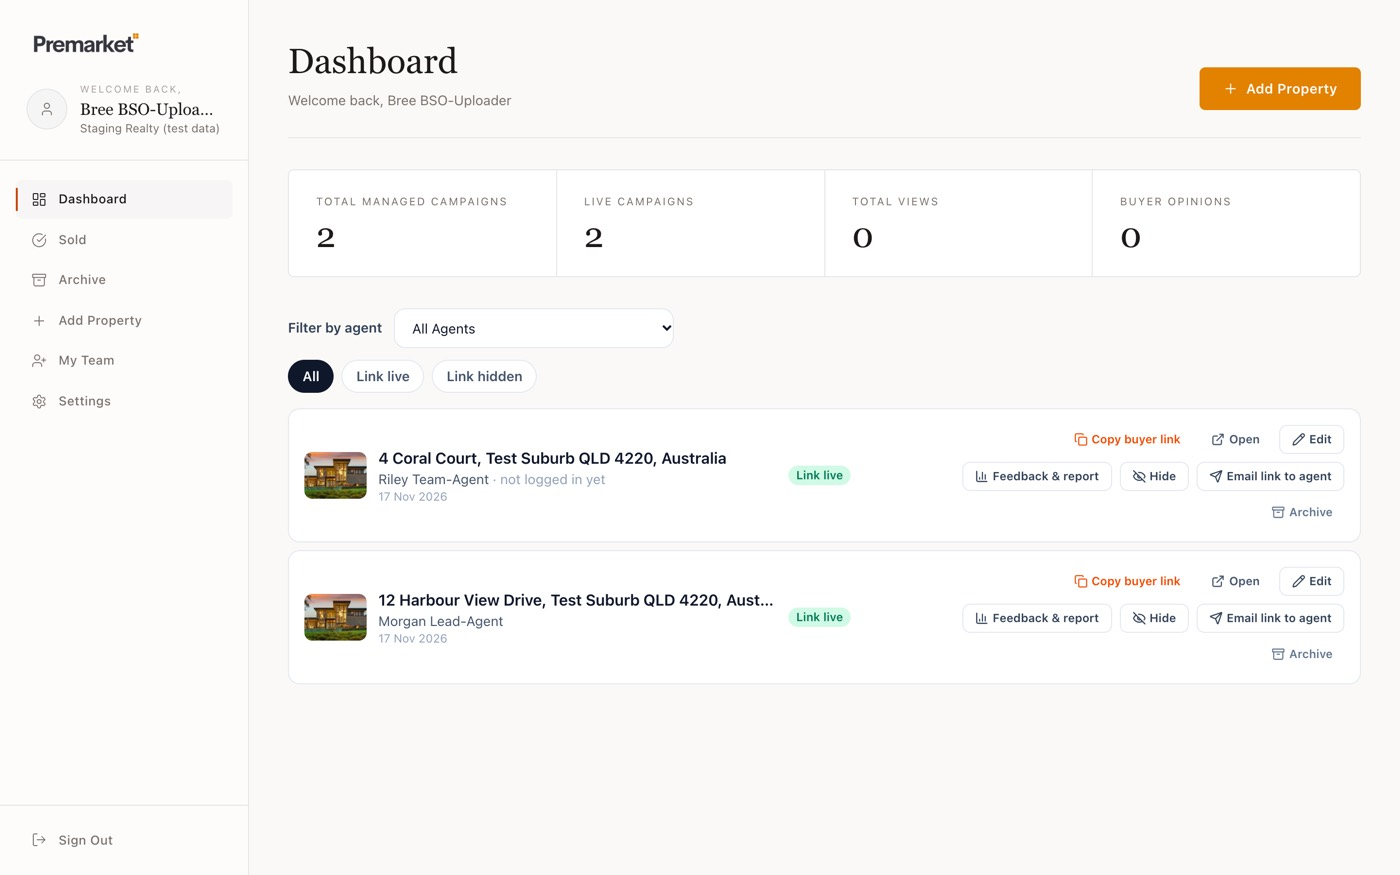
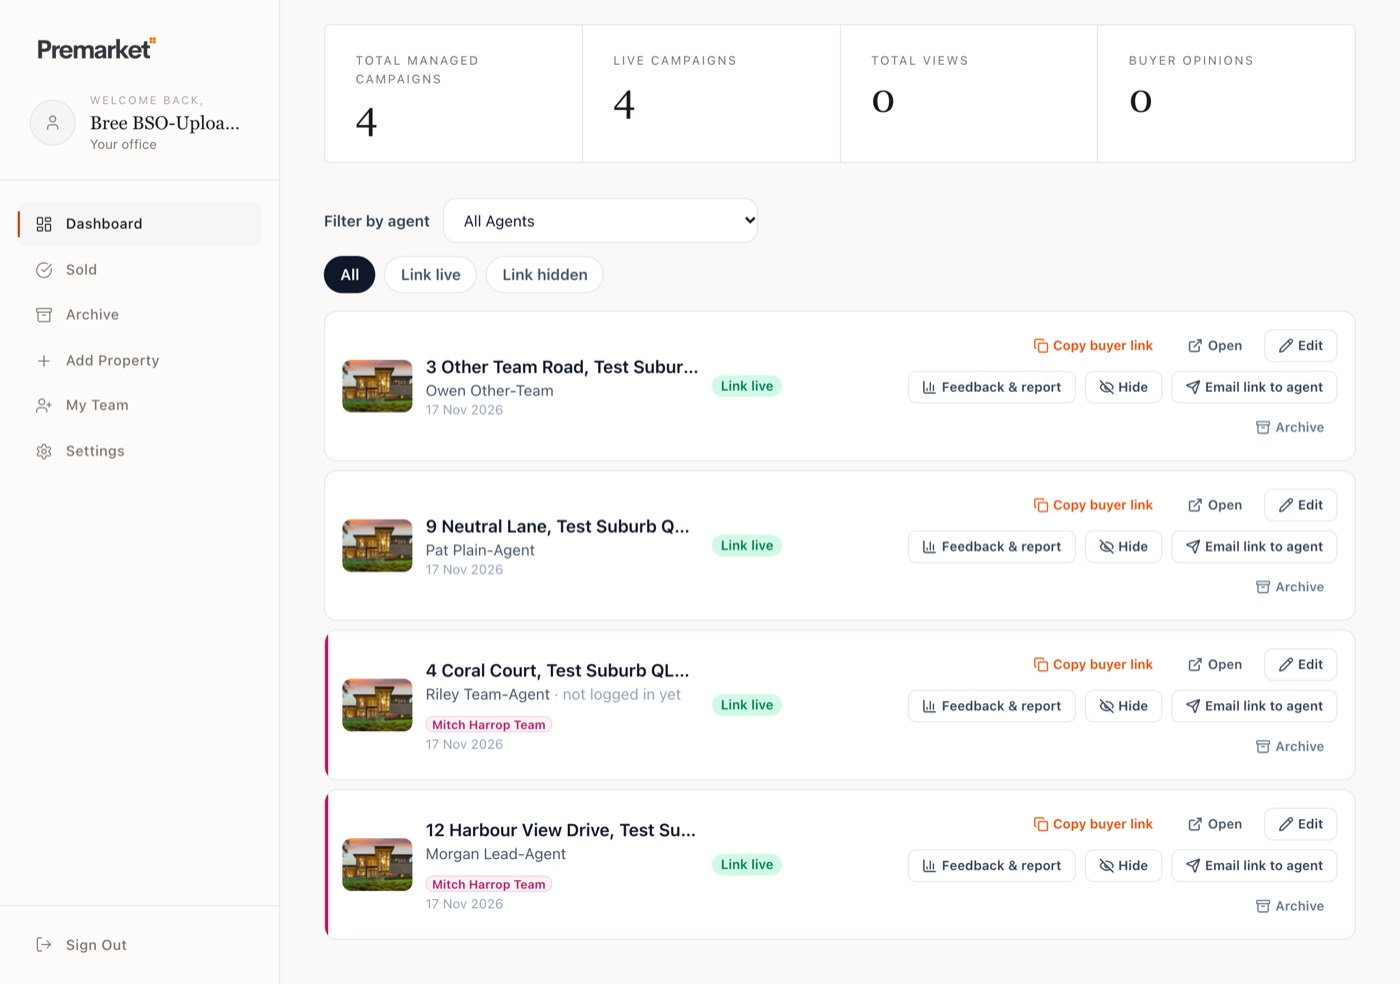
Mitch Harrop Team: subtle team marker in the BSO workspace and Office > Campaigns
Rows whose SELLING AGENT is in the verified Mitch Harrop Team get a thin pink rule and a small label with the team's
own name ("Mitch Harrop Team"); every other row, and both pages, are unchanged (no style attribute). Decided server-side
in listOfficeCampaigns / listBsoCampaigns from the users they already load (sellingAgentThemeLookup: the agent's one
team, assigned, in the agent's current office, office active; one read of the assigned team doc), never from the
uploader or the managing BSO.

Tests: team-theme.test.js 34 (adds end-to-end list tests: BSO upload for a member marked; a member uploading for a
no-team agent, other teams, roster upload for another team's agent unmarked). Full unit suite 2195 passed; the 4
leadership failures are pre-existing on origin/main. next build OK. Staging: 16/16 list checks (incl. label visible,
not truncated, desktop + phone) and 42/42 page checks.

diff --git a/tests/unit/team-theme.test.js b/tests/unit/team-theme.test.js
@@ -4,7 +4,7 @@ import {
   MITCH_HARROP_PINK, TEAM_THEME_PALETTES, knownTeamTheme, teamBrandColors, teamAccentStyle, campaignAccentStyle, contrastRatio,
 } from '../../src/app/utils/teamTheme';
 import { computeEffectiveColors, computeBrandStyle } from '../../src/app/utils/brandStyle';
-import { themeForTeamId, resolveCampaignTeamThemes, TEAM_THEME_ASSIGNMENTS, activeTeamThemeAssignments } from '../../src/app/api/services/teamThemes';
+import { themeForTeamId, resolveCampaignTeamThemes, TEAM_THEME_ASSIGNMENTS, activeTeamThemeAssignments, sellingAgentThemeLookup } from '../../src/app/api/services/teamThemes';
 
 const read = (p) => readFileSync(new URL(`../../${p}`, import.meta.url), 'utf-8');
 // Source without comments, so guards look at code rather than at explanations.
@@ -107,10 +107,11 @@ function fakeDb(seed) {
             },
           };
         },
-        where(field, _op, value) {
+        where(field, op, value) {
+          const match = (d) => (op === 'in' ? value.includes(d[field]) : d[field] === value);
           return {
             async get() {
-              const docs = Object.entries(col).filter(([, d]) => d && d[field] === value).map(([id, d]) => ({ id, data: () => d }));
+              const docs = Object.entries(col).filter(([, d]) => d && d !== '__throw__' && match(d)).map(([id, d]) => ({ id, data: () => d }));
               reads.count += docs.length || 1;
               return { docs, empty: docs.length === 0 };
             },
@@ -239,6 +240,85 @@ describe('resolveCampaignTeamThemes — by the campaign\'s team, never the uploa
   });
 });
 
+/* ───────────────────────── office lists: BSO workspace + Office > Campaigns ───────────────────────── */
+
+const REAL_TEAM = 'ICSKK5kDs5RF5OYs11mM';
+// Same fake office, with the fake themed team under the REAL shipped id, so the shipped list is what is exercised.
+const listSeed = () => {
+  const s = JSON.parse(JSON.stringify(base()).replaceAll(MITCH_TEAM, REAL_TEAM));
+  s.officeAdminInfo[OFFICE] = { status: 'active', name: 'HPH (fake)', bsoUids: ['bso'], officeAdminUids: ['adminUploader'] };
+  s.properties.pBsoForSolo = { userId: 'solo', managedByUid: 'bso', createdByUid: 'bso', managedCreation: true };
+  s.properties.pBsoForOther = { userId: 'other', managedByUid: 'bso', createdByUid: 'bso', managedCreation: true };
+  return s;
+};
+const LABELLED = { key: MITCH_HARROP_PINK.key, label: 'Mitch Harrop Team' };
+
+describe('sellingAgentThemeLookup (office lists): the selling agent\'s verified team, with the team\'s own name', () => {
+  const users = (s) => new Map(Object.entries(s.users));
+  it('labels a themed team\'s selling agent; other teams, no team and unknown uids get nothing', async () => {
+    const s = listSeed();
+    const themeOf = await sellingAgentThemeLookup(fakeDb(s), { users: users(s), officeActive: true });
+    expect(themeOf('mate')).toEqual(LABELLED);
+    expect(themeOf('mitch')).toEqual(LABELLED);
+    expect(themeOf('other')).toBeNull();
+    expect(themeOf('solo')).toBeNull();
+    expect(themeOf('bso')).toBeNull();
+    expect(themeOf(null)).toBeNull();
+    expect(themeOf('nobody')).toBeNull();
+  });
+  it('inactive office, stale team, or nothing assigned: no marker (and no reads when nothing is assigned)', async () => {
+    const s = listSeed();
+    expect((await sellingAgentThemeLookup(fakeDb(s), { users: users(s), officeActive: false }))('mate')).toBeNull();
+    const moved = listSeed(); moved.teams[REAL_TEAM].officeId = 'elsewhere';
+    expect((await sellingAgentThemeLookup(fakeDb(moved), { users: users(moved), officeActive: true }))('mate')).toBeNull();
+    const db = fakeDb(s);
+    expect((await sellingAgentThemeLookup(db, { users: users(s), officeActive: true, assignments: {} }))('mate')).toBeNull();
+    expect(db.reads.count).toBe(0);
+  });
+  it('a team without a name still gets the accent rule, just no label', async () => {
+    const s = listSeed(); delete s.teams[REAL_TEAM].name;
+    expect((await sellingAgentThemeLookup(fakeDb(s), { users: users(s), officeActive: true }))('mate')).toEqual({ key: MITCH_HARROP_PINK.key, label: null });
+  });
+});
+
+describe('Office > Campaigns and the BSO workspace mark only the themed team\'s campaigns, by selling agent', () => {
+  it('Office > Campaigns: BSO upload for a member is marked; a member uploading for someone else, other teams and no-team agents are not', async () => {
+    routeDb = fakeDb(listSeed());
+    const { listOfficeCampaigns } = await import('../../src/app/api/services/managedCampaignService');
+    const { campaigns } = await listOfficeCampaigns(routeDb, OFFICE);
+    const by = Object.fromEntries(campaigns.map((c) => [c.id, c.teamTheme]));
+    expect(by.pMitch).toEqual(LABELLED);
+    expect(by.pMate).toEqual(LABELLED);
+    expect(by.pManagedForMitch).toEqual(LABELLED); // uploaded + managed by the BSO, selling agent in the team
+    expect(by.pRosterForMitch).toEqual(LABELLED); // admin's account, assigned to a member by unique name
+    expect(by.pUploadedByMitchForSolo).toBeNull(); // uploaded by a member, selling agent not in the team
+    expect(by.pRosterByMitchForOther).toBeNull(); // a member's account, assigned to another team's agent
+    expect(by.pOther).toBeNull();
+    expect(by.pSolo).toBeNull();
+    expect(by.pRosterAmbiguous).toBeNull();
+  });
+
+  it('BSO workspace: the BSO\'s own uploads are marked only when the selling agent is in the team', async () => {
+    routeDb = fakeDb(listSeed());
+    const { listBsoCampaigns } = await import('../../src/app/api/services/managedCampaignService');
+    const { campaigns } = await listBsoCampaigns(routeDb, 'bso');
+    const by = Object.fromEntries(campaigns.map((c) => [c.id, c.teamTheme]));
+    expect(by).toEqual({ pManagedForMitch: LABELLED, pBsoForSolo: null, pBsoForOther: null });
+  });
+
+  it('the list rows render the marker only for a known palette and keep every other row unstyled', () => {
+    for (const f of ['src/app/dashboard/components/BsoCampaigns.js', 'src/app/dashboard/office/campaigns/page.js']) {
+      const src = read(f);
+      expect(src).toContain('style={teamRowStyle(c.teamTheme)}');
+      expect(src).toContain('<TeamAccentRule theme={c.teamTheme} />');
+      expect(src).toContain('<TeamLabel theme={c.teamTheme} />');
+    }
+    const marker = read('src/app/components/TeamCampaignMarker.js');
+    expect(marker).toContain('if (!knownTeamTheme(theme)) return null;');
+    expect(marker).toContain("const label = knownTeamTheme(theme) && typeof theme.label === 'string' ? theme.label : null;");
+  });
+});
+
 /* ───────────────────────── public route ───────────────────────── */
 
 let routeDb;
@@ -269,8 +349,8 @@ describe('scope guards', () => {
   it('the theme service and helpers only read: no writes of any kind', () => {
     const src = THEME_FILES.map(code).join('\n');
     expect(src).not.toMatch(/\.(update|add|delete|create)\(|runTransaction|batch\(|FieldValue|method:\s*'(POST|PUT|PATCH|DELETE)'/);
-    // The only .set( calls are on in-memory Maps (per-request memo / per-page cache), never on a document.
-    for (const m of src.matchAll(/(\w+)\.set\(/g)) expect(['memo', 'cache']).toContain(m[1]);
+    // The only .set( calls are on in-memory Maps (per-request memo / per-page cache / per-call team docs), never on a document.
+    for (const m of src.matchAll(/(\w+)\.set\(/g)) expect(['memo', 'cache', 'teamDocs']).toContain(m[1]);
   });
 
   it('pricing, promo, billing, permissions, membership and opinions are not touched', () => {

diff --git a/src/app/api/services/managedCampaignService.js b/src/app/api/services/managedCampaignService.js
@@ -6,6 +6,7 @@ import { canCreateTestCampaign, loadTestCampaignIds, TEST_CAMPAIGN_EXEMPTION_REA
 import { pickNotificationUser } from '../../utils/notificationUser';
 import { sendCampaignLinkOnce } from './agentNotificationService';
 import { loadActiveOffice, isActiveBso, getBsoAccess, bsoUidsOf, isUsableAccount } from './bsoService';
+import { sellingAgentThemeLookup } from './teamThemes';
 
 /**
  * Office-managed campaigns, built on the EXISTING property model (no second campaign system).
@@ -581,6 +582,8 @@ export async function listOfficeCampaigns(db, officeId) {
   const users = new Map(usersSnap.docs.map((d) => [d.id, d.data()]));
   const bsos = new Set(bsoUidsOf(office).filter((uid) => isUsableAccount(users.get(uid))));
   const admins = new Set(adminUidsOf(office).filter((uid) => users.has(uid)));
+  // Display-only team accent marker, from each campaign's SELLING AGENT's verified team (never the uploader).
+  const themeOf = await sellingAgentThemeLookup(db, { users, officeActive: !!office });
   const campaigns = [];
   for (const ids of chunk([...users.keys()], 10)) {
     const snap = await db.collection('properties').where('userId', 'in', ids).get();
@@ -588,6 +591,7 @@ export async function listOfficeCampaigns(db, officeId) {
       const p = d.data();
       if (p.hidden === true) continue;
       const c = toCampaignSummary(d.id, p, users, profiles, testIds);
+      c.teamTheme = themeOf(c.sellingAgent?.uid);
       // An assigned manager who is no longer a BSO or office admin here has lost access: flag it for reassignment.
       c.needsManager = !!p.managedByUid && !bsos.has(p.managedByUid) && !admins.has(p.managedByUid) && !c.archived;
       campaigns.push(c);
@@ -615,6 +619,8 @@ export async function listBsoCampaigns(db, actorUid) {
   ]);
   const testIds = await loadTestCampaignIds(db);
   const users = new Map(usersSnap.docs.map((d) => [d.id, d.data()]));
+  // Display-only team accent marker, from each campaign's SELLING AGENT's verified team (never the uploader / this BSO).
+  const themeOf = await sellingAgentThemeLookup(db, { users, officeActive: true }); // getBsoAccess required an active office
   const out = new Map();
   for (const d of managedSnap.docs) {
     const p = d.data();
@@ -629,7 +635,10 @@ export async function listBsoCampaigns(db, actorUid) {
   // Counts only (never the opinions themselves), for the BSO dashboard's figures. The BSO already has report access to
   // every campaign listed here.
   const opinions = await countOpinions(db, [...out.keys()]);
-  for (const [id, c] of out) c.opinions = opinions.get(id) || 0;
+  for (const [id, c] of out) {
+    c.opinions = opinions.get(id) || 0;
+    c.teamTheme = themeOf(c.sellingAgent?.uid);
+  }
   return { office: { id: access.officeId, name: access.officeName }, campaigns: [...out.values()].sort(byNewest) };
 }
 

diff --git a/src/app/dashboard/office/campaigns/page.js b/src/app/dashboard/office/campaigns/page.js
@@ -10,6 +10,7 @@ import { authFetch } from '../../../utils/authFetch';
 import { startOfficeRequest, officeResponse } from '../../../utils/officePrefetch';
 import BackToDashboard from '../../../components/BackToDashboard';
 import PropertyThumb from '../../../components/PropertyThumb';
+import { teamRowStyle, TeamAccentRule, TeamLabel } from '../../../components/TeamCampaignMarker';
 import { OfficePageSkeleton } from '../../components/PageSkeletons';
 
 const date = (iso) => (iso ? new Date(iso).toLocaleDateString('en-AU', { day: 'numeric', month: 'short', year: 'numeric' }) : '');
@@ -153,7 +154,8 @@ function CampaignsInner() {
         <ul className="mt-4 space-y-2">
           {shown.length === 0 && <li className="bg-white rounded-xl border border-slate-200 p-6 text-sm text-slate-500 text-center">No campaigns match.</li>}
           {shown.map((c) => (
-            <li key={c.id} className="bg-white rounded-xl border border-slate-200 p-4 flex flex-col gap-3">
+            <li key={c.id} className={`${c.teamTheme ? 'relative overflow-hidden ' : ''}bg-white rounded-xl border border-slate-200 p-4 flex flex-col gap-3`} style={teamRowStyle(c.teamTheme)}>
+              <TeamAccentRule theme={c.teamTheme} />
               <div className="flex items-start gap-3">
               <div className="flex items-center gap-3 flex-1 min-w-0">
                 {c.imageUrl
@@ -165,6 +167,7 @@ function CampaignsInner() {
                     {c.address || 'Untitled campaign'}
                   </p>
                   <p className="text-sm text-slate-600 truncate">{c.sellingAgent?.name || c.ownerName || c.ownerEmail}{c.sellingAgent?.loginStatus === 'invited' && <span className="text-slate-400"> · not logged in yet</span>}</p>
+                  <TeamLabel theme={c.teamTheme} />
                   <p className="text-xs text-slate-500 truncate">
                     {c.managedByUid ? <>Managed by {c.managedByName || 'unknown'}</> : 'Managed by the agent'}
                     {c.needsManager && <span className="ml-1.5 inline-flex px-1.5 py-0.5 rounded-full bg-red-100 text-red-700 font-semibold">Needs a manager</span>}

diff --git a/src/app/api/services/teamThemes.js b/src/app/api/services/teamThemes.js
@@ -50,6 +50,41 @@ export function themeForTeamId(teamId, assignments = activeTeamThemeAssignments(
   return palette ? { key: palette.key } : null;
 }
 
+const MAX_LABEL = 80;
+const cleanLabel = (n) => {
+  const v = String(n ?? '').trim().replace(/\s+/g, ' ');
+  return v && v.length <= MAX_LABEL ? v : null;
+};
+
+/**
+ * For the office campaign lists (Office > Campaigns, the BSO workspace), which already hold the office's users and have
+ * already worked out each campaign's SELLING AGENT (managedCampaignService.sellingAgentOf: same rule as above, never the
+ * uploader). Returns uid -> { key, label } | null, where label is the team's own configured name. The same live checks
+ * apply: the agent's one team must be assigned, exist, and be in the agent's current office, and the office must be
+ * active (the caller says so: it has just loaded it). One read per assigned team; none when nothing is assigned.
+ */
+export async function sellingAgentThemeLookup(db, { users, officeActive, assignments = activeTeamThemeAssignments() }) {
+  const teamIds = Object.keys(assignments);
+  if (!officeActive || !teamIds.length || !users) return () => null;
+  const teamDocs = new Map(); // in-memory, this call only
+  await Promise.all(teamIds.map(async (t) => {
+    try {
+      const snap = await db.collection('teams').doc(t).get();
+      if (snap.exists) teamDocs.set(t, snap.data());
+    } catch (err) {
+      console.error('team theme lookup failed (non-fatal):', err?.message || err);
+    }
+  }));
+  return (uid) => {
+    const u = uid ? users.get(uid) : null;
+    if (!u || !u.officeId || !has(assignments, u.teamId)) return null;
+    const team = teamDocs.get(u.teamId);
+    if (!team || team.officeId !== u.officeId) return null;
+    const theme = themeForTeamId(u.teamId, assignments);
+    return theme ? { ...theme, label: cleanLabel(team.name) } : null;
+  };
+}
+
 const normName = (n) => String(n || '').trim().replace(/\s+/g, ' ').toLowerCase();
 const fullName = (u) => `${u?.firstName || ''} ${u?.lastName || ''}`;
 export const MAX_THEME_PROPERTY_IDS = 25;

diff --git a/src/app/dashboard/components/BsoCampaigns.js b/src/app/dashboard/components/BsoCampaigns.js
@@ -6,6 +6,7 @@ import { ExternalLink, Eye, EyeOff, Archive, Send, Copy, Pencil, BarChart3, Chec
 import { authFetch } from '../../utils/authFetch';
 import { BSO_TAB_FILTERS } from '../../utils/bsoDashboard';
 import PropertyThumb from '../../components/PropertyThumb';
+import { teamRowStyle, TeamAccentRule, TeamLabel } from '../../components/TeamCampaignMarker';
 
 /**
  * The BSO's campaigns, shown on their Dashboard (formerly the separate "My Campaigns" page). Everything comes from
@@ -158,7 +159,8 @@ export function BsoCampaignList({ campaigns, tab = 'overview', onChanged }) {
         {shown.map((c) => {
           const [label, cls] = STATUS[c.status] || STATUS.hidden;
           return (
-            <li key={c.id} data-testid="bso-campaign" className="bg-white rounded-xl border border-slate-200 p-4 flex flex-col sm:flex-row sm:items-center gap-3">
+            <li key={c.id} data-testid="bso-campaign" className={`${c.teamTheme ? 'relative overflow-hidden ' : ''}bg-white rounded-xl border border-slate-200 p-4 flex flex-col sm:flex-row sm:items-center gap-3`} style={teamRowStyle(c.teamTheme)}>
+              <TeamAccentRule theme={c.teamTheme} />
               <div className="flex items-center gap-3 flex-1 min-w-0">
                 {c.imageUrl
                   ? <PropertyThumb src={c.imageUrl} width={64} height={48} className="w-16 h-12 rounded-lg object-cover bg-slate-100 shrink-0" />
@@ -172,6 +174,7 @@ export function BsoCampaignList({ campaigns, tab = 'overview', onChanged }) {
                     {c.sellingAgent?.name || 'Agent not set'}
                     {c.sellingAgent?.loginStatus === 'invited' && <span className="text-slate-400"> · not logged in yet</span>}
                   </p>
+                  <TeamLabel theme={c.teamTheme} />
                   <p className="text-xs text-slate-400">{date(c.createdAt)}</p>
                 </div>
               </div>

diff --git a/src/app/components/TeamCampaignMarker.js b/src/app/components/TeamCampaignMarker.js
@@ -1,0 +1,32 @@
+import { knownTeamTheme, teamAccentStyle } from '../utils/teamTheme';
+
+/**
+ * Subtle team marker for a campaign row in the office lists (Office > Campaigns, the BSO workspace): a thin accent rule
+ * down the row's left edge and a small team-name label. `theme` is the campaign summary's `teamTheme`, decided by the
+ * server from the campaign's SELLING AGENT's verified team (services/teamThemes.js). With no theme — every other team and
+ * agent — nothing renders and the row has no style attribute, so it looks exactly as before.
+ */
+export function teamRowStyle(theme) {
+  return teamAccentStyle(knownTeamTheme(theme));
+}
+
+export function TeamAccentRule({ theme }) {
+  if (!knownTeamTheme(theme)) return null;
+  return <span className="absolute inset-y-0 left-0 w-[3px] bg-[var(--team-accent)]" aria-hidden="true" data-testid="team-accent-rule" />;
+}
+
+/** Its own small line under the selling agent's name (never inside a truncated line, so it is always visible). */
+export function TeamLabel({ theme }) {
+  const label = knownTeamTheme(theme) && typeof theme.label === 'string' ? theme.label : null;
+  if (!label) return null;
+  return (
+    <p className="mt-1">
+      <span
+        className="inline-flex px-1.5 py-0.5 rounded-full text-[11px] font-semibold leading-none bg-[var(--team-accent-soft)] text-[var(--team-accent)] ring-1 ring-inset ring-[var(--team-accent-border)]"
+        data-testid="team-label"
+      >
+        {label}
+      </span>
+    </p>
+  );
+}

diff --git a/docs/visual-evidence/mitch-harrop-team-theme/README.md b/docs/visual-evidence/mitch-harrop-team-theme/README.md
@@ -33,6 +33,10 @@
 | 13 | My Team page (My properties tab) | Mitch team member | pink accents + campaign row marker | ✅ |
 | 14 | Dashboard | another team's member | orange (unchanged) | ✅ |
 | 15 | Dashboard | agent with no team | orange (unchanged) | ✅ |
-| 16 | Dashboard | the uploading BSO (not in the team) | orange (unchanged; the uploader is never themed) | ✅ |
+| 16 | BSO workspace | the uploading BSO (not in the team) | standard chrome; only rows whose **selling agent** is in the team get the thin pink rule + "Mitch Harrop Team" label | ✅ |
+| 17 | Office › Campaigns (office admin) | whole office | neutral page; only the team's 2 campaigns marked; other teams, no-team agents and an admin-account upload for another team's agent unmarked | ✅ |
+| 18–19 | Office › Campaigns + BSO workspace, phone | as above | label on its own line, fully visible | ✅ |
+
+List checks (scratchpad `e2e/visual-lists.js`): **16/16 passed**. They cover the marked rows being exactly the team's campaigns, the pink rule + label colour, the label being fully visible (not truncated) on desktop and phone, and every other row having no rule, no label and no style.
 
 Automated computed-colour checks (scratchpad `e2e/visual-final.js`): **42/42 passed**. They include the BSO-uploaded campaign of a never-logged-in team agent (pink), and the kiosk approve → thank-you staying on the same single page.
